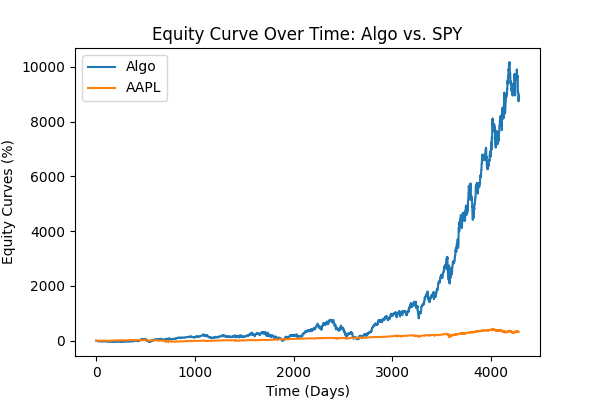
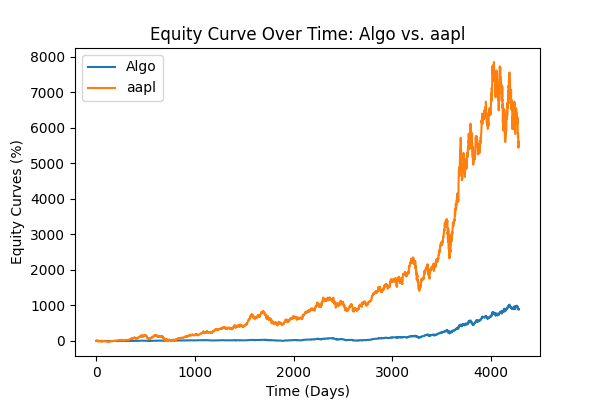
added file forecasting.py inside the directory final_project

diff --git a/alpha.py b/alpha.py
@@ -15,8 +15,9 @@ from data import HistoricCSVDataHandler
 from execution import SimulatedExecutionHandler
 from portfolio import Portfolio
 from forecast import create_lagged_series
-
-
+from sklearn.tree import DecisionTreeClassifier
+from sklearn.tree import DecisionTreeClassifier
+from sklearn.metrics import accuracy_score
 # snp_forecast.py
 class SPYDailyForecastStrategy(Strategy):
     """
@@ -66,6 +67,7 @@ class SPYDailyForecastStrategy(Strategy):
         # model = LogisticRegression()
         model.fit(X_train, y_train)
         return model
+
 
     def calculate_signals(self, event):
         """
@@ -117,6 +119,149 @@ class SPYDailyForecastStrategy(Strategy):
                     self.events.put(signal)
 
 
+class DecisionStumpForecastStrategy(Strategy):
+    """
+    S&P500 forecast strategy. It uses a Quadratic Discriminant Analyser to predict
+    the returns for a subsequent time period and then generated long/exit signals based on the prediction.
+    """
+
+    def __init__(self, bars, events):
+        self.bars = bars
+
+        self.symbol_list = self.bars.symbol_list
+        self.events = events
+        self.datetime_now = datetime.datetime.utcnow()
+        self.model_start_date = datetime.datetime(2001, 1, 10)
+        self.model_end_date = datetime.datetime(2005, 12, 31)
+        self.model_start_test_date = datetime.datetime(2005, 1, 1)
+        self.long_market = False
+        self.short_market = False
+        self.bar_index = 0
+        self.model = self.create_symbol_forecast_model()
+
+    @staticmethod
+    def adaboost_pred(N, hypotheses, hypothesis_weights, X):
+        Y_pred = np.zeros(N)
+        for i in range(N):
+            x = X[i, :]
+            for (h, alpha) in zip(hypotheses, hypothesis_weights):
+                y_pred = y_pred + alpha * h.predict(x)
+                y_pred = np.sign(y_pred)
+            Y_pred[i] = y_pred
+        return y_pred
+
+    def create_symbol_forecast_model(self):
+
+        # Create a lagged series of the S&P500 US stock market index
+        snpret = create_lagged_series(
+            self.symbol_list[0], self.model_start_date, self.model_end_date, lags=5
+        )
+        # Use the prior two days of returns as predictor # values, with direction as the response
+        # X = snpret[["Lag1", "Lag2"]]
+        X = snpret[["Lag1", "Lag2", "Lag3", "Lag4", "Lag5"]]
+        # X = snpret[["Lag1", "Lag2"]]
+
+        y = snpret["Direction"]
+        # Create training and test sets
+        start_test = self.model_start_test_date
+        X_train = X[X.index < start_test]
+        X_train = np.flip(X_train.to_numpy(), axis=1)
+        X_test = X[X.index >= start_test]
+        X_test = np.flip(X_test.to_numpy(), axis=1)
+        y_train = y[y.index < start_test]
+        y_train = y_train.to_numpy()
+
+        y_test = y[y.index >= start_test]
+        y_test = y_test.to_numpy()
+
+        # # model = QDA()
+        # model = LDA()
+        # # model = SVC()
+        # # model = LogisticRegression()
+        # model.fit(X_train, y_train)
+
+        hypotheses = []
+        hypothesis_weights = []
+
+        N, _ = X_train.shape
+        d = np.ones(N) / N
+
+
+        num_iterations = 25
+        for t in range(num_iterations):
+            h = DecisionTreeClassifier(max_depth=1)
+
+            h.fit(X_train, y_train, sample_weight=d)
+            pred = h.predict(X_train)
+
+            eps = d.dot(pred != y_train)
+            alpha = (np.log(1 - eps) - np.log(eps)) / 2
+
+            d = d * np.exp(- alpha * y_train * pred)
+            d = d / d.sum()
+
+            hypotheses.append(h)
+            hypothesis_weights.append(alpha)
+
+        y_pred = self.adaboost_pred(N, hypotheses, hypothesis_weights, X_train)
+        train_acc =accuracy_score(y_train, y_pred)
+        print("train accuracy: ", train_acc)
+
+        model = (hypotheses, hypothesis_weights)
+        return model
+
+    def calculate_signals(self, event):
+        """
+            Calculate the SignalEvents based on market data.
+        """
+
+        sym = self.symbol_list[0]
+        dt = self.datetime_now
+        if event.type == 'MARKET':
+            self.bar_index += 1
+            if self.bar_index > 5:
+                lags = self.bars.get_latest_bars_values(
+                    self.symbol_list[0], "adj_close", N=6
+                )
+                # lags_norm = pd.DataFrame({'Lag1': [lags[1]],
+                #                           'Lag2':[lags[2]] ,'Lag3':[lags[3]] ,'Lag4': [lags[4]],'Lag5': [lags[5]]})
+                lags_norm = pd.DataFrame({'Lags': [lags[0], lags[1], lags[2], lags[3],
+                                                   lags[4], lags[5]]}).pct_change() * 100
+                # lags_norm.loc[0, 'Lags'] = 0.01
+
+                # pred_series = pd.Series(
+                # {
+                # 'Lag1': lags[1] * 100.0,
+                # 'Lag2': lags[2] * 100.0
+                # }
+                #     )
+
+                pred_series = pd.Series(
+                    {
+                        'Lag1': lags_norm.loc[1, 'Lags'],
+                        'Lag2': lags_norm.loc[2, 'Lags'],
+                        'Lag3': lags_norm.loc[3, 'Lags'],
+                        'Lag4': lags_norm.loc[4, 'Lags'],
+                        'Lag5': lags_norm.loc[5, 'Lags'],
+
+                    }
+                )
+
+                # pred = self.model.predict(pred_series)
+                pred = self.model.predict(pred_series.values.reshape(1, -1))
+                # pred = self.model.predict(pd.DataFrame({'Lag1':[pred_series.values[0]], 'Lag2':[pred_series.values[1]]}))
+                if pred > 0 and not self.long_market:
+                    self.long_market = True
+                    signal = SignalEvent(1, sym, dt, 'LONG', 1.0)
+                    self.events.put(signal)
+                if pred < 0 and self.long_market:
+                    self.long_market = False
+                    signal = SignalEvent(1, sym, dt, 'EXIT', 1.0)
+                    self.events.put(signal)
+
+
+
+
 
 if __name__ == "__main__":
     csv_dir = 'data'  # CHANGE THIS!
@@ -136,10 +281,29 @@ def run_snp_forecast(symbol_list, initial_capital, trade_volume):
     # initial_capital = 100000.0
 
     heartbeat = 0.0
-    start_date = datetime.datetime(2006, 1, 3)
+    start_year = 2006
+    # start_year = 2015
+    start_date = datetime.datetime(start_year, 1, 3)
     backtest = Backtest(
         csv_dir, symbol_list, initial_capital, heartbeat,
         start_date, HistoricCSVDataHandler, SimulatedExecutionHandler, Portfolio, SPYDailyForecastStrategy
+    )
+    total_gain , returns, equity_curve, drawdown = backtest.simulate_trading(trade_volume)
+
+    return total_gain, returns, equity_curve, drawdown
+
+
+
+def run_adaboost_decision_stumps_forecast(symbol_list, initial_capital, trade_volume):
+    csv_dir = 'data'  # CHANGE THIS!
+    # symbol_list = ['SPY']
+    # initial_capital = 100000.0
+
+    heartbeat = 0.0
+    start_date = datetime.datetime(2006, 1, 3)
+    backtest = Backtest(
+        csv_dir, symbol_list, initial_capital, heartbeat,
+        start_date, HistoricCSVDataHandler, SimulatedExecutionHandler, Portfolio, DecisionStumpForecastStrategy
     )
     total_gain , returns, equity_curve, drawdown = backtest.simulate_trading(trade_volume)
 

diff --git a/final_project/forecasting.py b/final_project/forecasting.py
@@ -1,0 +1,105 @@
+import numpy as np
+import os
+import pandas as pd
+import sys
+# from forecast import create_lagged_series
+from sklearn.tree import DecisionTreeClassifier
+from sklearn.tree import DecisionTreeClassifier
+from sklearn.metrics import accuracy_score
+from sklearn.discriminant_analysis import QuadraticDiscriminantAnalysis as QDA
+from sklearn.discriminant_analysis import LinearDiscriminantAnalysis as LDA
+from sklearn.linear_model import LogisticRegression
+import numpy as np
+from sklearn.svm import SVC
+
+
+def create_data(lags, train_ratio, val_ratio, test_ratio, symbol):
+    sys.path.append('../')
+
+    path= os.path.join("..", 'data', symbol+ ".csv")
+    ts = pd.read_csv(path)
+
+    # close = (data['close'].to_numpy()).reshape(-1, 1)
+
+
+
+    tslag = pd.DataFrame(index=ts.index)
+    tslag["Today"] = ts["adj_close"]
+    tslag["Volume"] = ts["volume"]
+
+    # Create the shifted lag series of prior trading period close values
+    for i in range(0, lags):
+        tslag["Lag%s" % str(i + 1)] = ts["adj_close"].shift(i + 1)
+
+    # Create the returns DataFrame
+    tsret = pd.DataFrame(index=tslag.index)
+    tsret["Volume"] = tslag["Volume"]
+    tsret["Today"] = tslag["Today"].pct_change() * 100.0
+
+    # If any of the values of percentage returns equal zero, set them to a small number (stops issues with QDA model in Scikit-Learn)
+    for i, x in enumerate(tsret["Today"]):
+        if (abs(x) < 0.0001):
+            tsret["Today"][i] = 0.0001
+
+    # Create the lagged percentage returns columns
+    for i in range(0, lags):
+        tsret["Lag%s" % str(i + 1)] = \
+            tslag["Lag%s" % str(i + 1)].pct_change() * 100.0
+    # Create the "Direction" column (+1 or -1) indicating an up/down day
+    tsret["Direction"] = np.sign(tsret["Today"])
+    tsret = tsret.iloc[lags+1:]
+
+    X = tsret[["Lag1", "Lag2", "Lag3", "Lag4", "Lag5"]]
+    y = tsret["Direction"]
+
+    num_data = X.shape[0]
+
+    num_train = int(num_data * train_ratio )
+
+    num_valid_test = num_data - num_train
+
+    num_val = int(num_data * val_ratio)
+    num_test = num_valid_test - num_val
+
+    X_train  = X[:num_train]
+    y_train = y[:num_train]
+
+    X_val = X[num_train:num_train + num_val]
+    y_val = y[num_train:num_train + num_val]
+
+    X_test = X[num_train + num_val: ]
+    y_test = y[num_train + num_val: ]
+
+    return X_train, y_train, X_val, y_val, X_test, y_test
+
+    # tsret = tsret[tsret.index >= start_date]
+
+
+# lags: number of days we look before the day we want to make a prediction
+lags = 5
+
+# train, validation, test data split ratios
+train_ratio = 0.6
+val_ratio = 0.2
+test_ratio = 0.2
+
+# symbol: stock symbol
+symbol = "AAPL"
+X_train, y_train, X_val, y_val, X_test, y_test = create_data(lags, train_ratio, val_ratio, test_ratio, symbol)
+
+
+
+# your model goes here.
+model = QDA()
+# model = LDA()
+# model = SVC()
+# model = LogisticRegression()
+
+model.fit(X_train, y_train)
+y_val_pred =model.predict(X_val)
+
+print("accuracy score", accuracy_score(y_val_pred, y_val))
+
+
+
+

diff --git a/main.py b/main.py
@@ -101,20 +101,20 @@ class RiskLevelApp(App):
         # Assuming 'equity_curve_numpy' is already defined
         # Assuming 'spy_close' is defined and loaded from the CSV file
 
-        df = pd.read_csv('data/SPY.csv')
-        spy_close = df['adj_close'].to_numpy()
+        df = pd.read_csv(f'data/{self.stock_symbols[0]}.csv')
+        stock_close = df['adj_close'].to_numpy()
 
-        spy_close_norm= (spy_close - spy_close[0])/spy_close[0]
+        stock_close_norm= (stock_close - stock_close[0])/stock_close[0]
 
         fig, ax = plt.subplots(figsize=(6, 4))  # Fix: Use plt.subplots instead of plt.figure
         ax.plot((equity_curve_numpy - 1) * 100, label="Algo")  # Add legend labels
-        ax.plot((spy_close_norm ) * 100, label="AAPL")  # Plot SPY data
+        ax.plot((stock_close_norm ) * 100, label=f"{self.stock_symbols[0]}")  # Plot SPY data
 
 
 
         plt.xlabel('Time (Days)')
         plt.ylabel('Equity Curves (%)')
-        plt.title('Equity Curve Over Time: Algo vs. SPY')
+        plt.title(f'Equity Curve Over Time: Algo vs. {self.stock_symbols[0]}')
         plt.legend()  # Include legend
         plt.show()
 

diff --git a/other/download_and_save_historic_market_stock_data_for_backtest.py b/other/download_and_save_historic_market_stock_data_for_backtest.py
@@ -12,8 +12,10 @@ def get_and_save_data(tick, start_date, end_date):
     yf_data.to_csv(f'../data/{tick}.csv', index=False)
 
 # tick = 'GOOGL'
-tick = 'SPY'
-tick = 'AAPL'
+# tick = 'SPY'
+# tick = 'AAPL'
+tick = 'META'
+# tick = 'MSFT'
 
 start_date = "2006-01-01"
 end_date= "2023-01-01"
